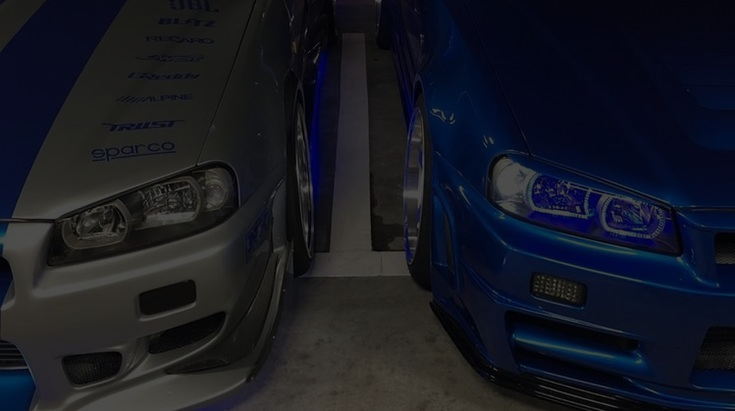
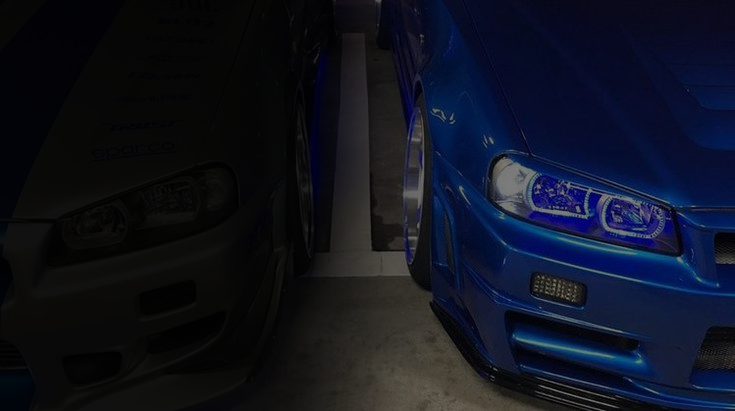
Pagina cadastro e login atualizada

diff --git a/site/css/cadastro.css b/site/css/cadastro.css
@@ -1,0 +1,161 @@
+@import url('https://fonts.googleapis.com/css2?family=Dancing+Script&display=swap');
+
+* {
+  margin: 0;
+  padding: 0;
+  font-family: 'poppins', sans-serif;
+  text-decoration: none;
+  list-style: none;
+  box-sizing: border-box;
+}
+
+body {
+  background-image: url(../imagens/cadastro.png);
+  background-size: cover;
+  background-repeat: no-repeat;
+  height: 100vh;
+}
+
+.center {
+  display: flex;
+  flex-direction: column;
+  align-items: flex-start;
+  margin-block: 1.5rem;
+  gap: 2rem;
+  padding: 50px;
+}
+
+/* Estilização do container principal */
+.container {
+  border-radius: 20px;
+  width: 500px;
+  height: 70%;
+  display: flex;
+  flex-direction: column;
+  align-items: center;
+  padding: 10px;
+}
+
+.title {
+  font-family: "Poppins", sans-serif;
+  font-weight: 600;
+  font-style: italic;
+  color: white;
+  text-shadow: 10px 10px 10px rgb(106 120 254);
+}
+
+/* Ajuste de espaçamento do ícone dentro do título */
+.title i {
+  margin-right: 10px;
+}
+
+
+
+
+/* Estilização do campo de entrada de dados */
+input,
+select {
+  padding-left: 10px;
+  height: 45px;
+  width: 95%;
+  font-weight: 500;
+  border-radius: 60px;
+  border: solid 2px rgb(106 120 254);
+  font-size: 14px;
+  letter-spacing: 0.5px;
+  outline: none;
+  color: #ffffff;
+  background-color: #000000c4;
+  font-family: "Poppins", sans-serif;
+  box-shadow: 0 4px 8px 0 rgba(106 120 254);
+  transition: 0.3s ease-in-out;
+}
+
+input::placeholder {
+  color: white;
+}
+
+/* Efeito ao focar no campo de entrada */
+input:focus {
+  border: 2px solid rgb(255, 255, 255);
+  box-shadow: none;
+  outline: none;
+  transition: border 0.2s ease-in-out;
+}
+
+
+
+/* Efeito ao passar o mouse sobre o botão */
+.button:hover {
+
+  transform: scale(1.05);
+
+}
+
+/* Efeito ao clicar no botão */
+.button:active {
+  transform: scale(0.95);
+  transition: transform 0.1s ease-in-out;
+}
+
+/* Estilização do botão */
+.button {
+  height: 45px;
+  width: 30%;
+  font-weight: 500;
+  border-radius: 60px;
+  font-size: 14px;
+  letter-spacing: 0.5px;
+  color: #ffffff;
+  background-color: #000000c4;
+  font-family: "Poppins", sans-serif;
+  border: solid 2px #6977fe;
+  box-shadow: 0 4px 8px 0 rgba(106 120 254);
+
+}
+
+.login {
+  font-size: 12px;
+  font-family: "Poppins", sans-serif;
+  margin-block-end: 10px;
+  color: #ffffff;
+}
+
+.login:hover {
+  border-bottom: 2px solid black;
+}
+
+/* Navbar */
+
+header {
+
+  width: 100%;
+  height: 80px;
+  display: flex;
+  align-items: center;
+  justify-content: space-between;
+  padding: 0 50px;
+}
+
+.logo {
+  width: 26%;
+}
+
+header nav ul {
+  display: flex;
+}
+
+header nav ul li a {
+  display: inline-block;
+  color: #ffffff;
+  padding: 5px 0;
+  margin: 0 10px;
+  border: 3px solid transparent;
+  text-transform: uppercase;
+
+}
+
+header nav ul li a:hover,
+header nav ul li a.active {
+  border-bottom-color: rgb(255, 255, 255);
+}

diff --git a/site/css/login.css b/site/css/login.css
@@ -10,17 +10,18 @@
 }
 
 body {
-  background-image: url(../imagens/cadastro.png);
+  background-image: url(../imagens/login.png);
   background-size: cover;
   background-repeat: no-repeat;
   height: 100vh;
 }
 
 .center {
+  height: 85vh;
   display: flex;
-  flex-direction: column;
   justify-content: center;
-  align-items: center;
+  flex-direction: column;
+  align-items: flex-end;
   margin-block: 1.5rem;
   gap: 2rem;
   padding: 50px;
@@ -29,8 +30,6 @@ body {
 /* Estilização do container principal */
 .container {
   border-radius: 20px;
-  border: 3px solid #ffffffd1;
-  background: rgba(227, 227, 227, 0.400);
   width: 500px;
   height: 70%;
   display: flex;
@@ -44,7 +43,7 @@ body {
   font-weight: 600;
   font-style: italic;
   color: white;
-  text-shadow: 2px 2px 10px rgba(0, 0, 0, 0.5);
+  text-shadow: 10px 10px 10px rgb(106 120 254);
 }
 
 /* Ajuste de espaçamento do ícone dentro do título */
@@ -53,13 +52,6 @@ body {
 }
 
 
-h3 {
-  font-family: "Poppins", sans-serif;
-  font-weight: 300;
-  font-style: italic;
-  color: white;
-  font-size: 20px;
-}
 
 
 /* Estilização do campo de entrada de dados */
@@ -69,22 +61,25 @@ select {
   height: 45px;
   width: 95%;
   font-weight: 500;
-  border-radius: 4px;
+  border-radius: 60px;
+  border: solid 2px rgb(106 120 254);
   font-size: 14px;
   letter-spacing: 0.5px;
   outline: none;
-  color: #000000;
-  background-color: #ffffffda;
-  border: none;
+  color: #ffffff;
+  background-color: #000000c4;
   font-family: "Poppins", sans-serif;
-  box-shadow: 0 4px 8px 0 rgba(21, 21, 21, .2);
+  box-shadow: 0 4px 8px 0 rgba(106 120 254);
   transition: 0.3s ease-in-out;
+}
 
+input::placeholder {
+  color: white;
 }
 
 /* Efeito ao focar no campo de entrada */
 input:focus {
-  border: 2px solid #000000;
+  border: 2px solid rgb(255, 255, 255);
   box-shadow: none;
   outline: none;
   transition: border 0.2s ease-in-out;
@@ -94,9 +89,9 @@ input:focus {
 
 /* Efeito ao passar o mouse sobre o botão */
 .button:hover {
-  background: #ffffff;
+
   transform: scale(1.05);
-  box-shadow: 0 4px 8px rgba(21, 21, 21, 0.2);
+
 }
 
 /* Efeito ao clicar no botão */
@@ -110,13 +105,14 @@ input:focus {
   height: 45px;
   width: 30%;
   font-weight: 500;
-  border-radius: 4px;
+  border-radius: 60px;
   font-size: 14px;
   letter-spacing: 0.5px;
-  color: #000000;
-  background: linear-gradient(90deg, #ffffffd2 0%, #e3e3e3 100%);
+  color: #ffffff;
+  background-color: #000000c4;
   font-family: "Poppins", sans-serif;
-  border: none;
+  border: solid 2px #6977fe;
+  box-shadow: 0 4px 8px 0 rgba(106 120 254);
 
 }
 
@@ -134,7 +130,7 @@ input:focus {
 /* Navbar */
 
 header {
-  background: linear-gradient(to right, #161616, #6772d5);
+ 
   width: 100%;
   height: 80px;
   display: flex;

diff --git a/site/cadastro.html b/site/cadastro.html
@@ -4,7 +4,7 @@
     <meta charset="UTF-8">
     <meta name="viewport" content="width=device-width, initial-scale=1.0">
     <title>Cadastro</title>
-    <link rel="stylesheet" href="../site/css/cadastro_login.css">
+    <link rel="stylesheet" href="../site/css/cadastro.css">
     <link rel="icon" href="imagens/icon.png">
 
 </head>

diff --git a/site/login.html b/site/login.html
@@ -4,7 +4,7 @@
     <meta charset="UTF-8">
     <meta name="viewport" content="width=device-width, initial-scale=1.0">
     <title>Login</title>
-    <link rel="stylesheet" href="../site/css/cadastro_login.css">
+    <link rel="stylesheet" href="../site/css/login.css">
     <link rel="icon" href="imagens/icon.png">
 </head>
 <body>

diff --git a/site/css/home.css b/site/css/home.css
@@ -8,6 +8,12 @@
   list-style: none;
   box-sizing: border-box;
 }
+body {
+
+  background-size: cover;
+  background-repeat: no-repeat;
+  height: 100vh;
+}
 
 
 

diff --git a/site/index.html b/site/index.html
@@ -84,6 +84,11 @@
                 </div>
             </div>
         </section>
+
+
+      
     </div>
+
+
 
 </html>
